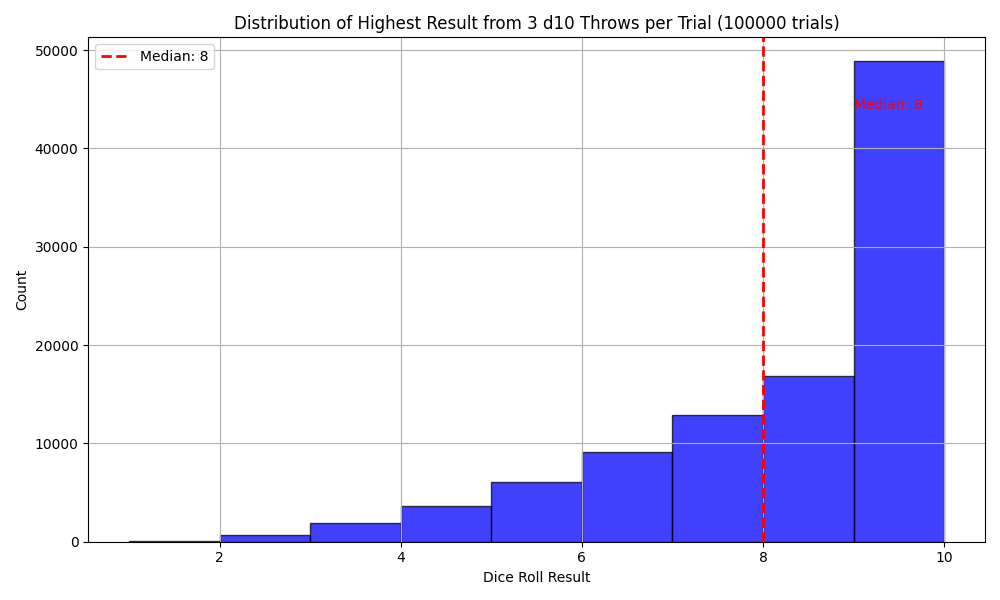
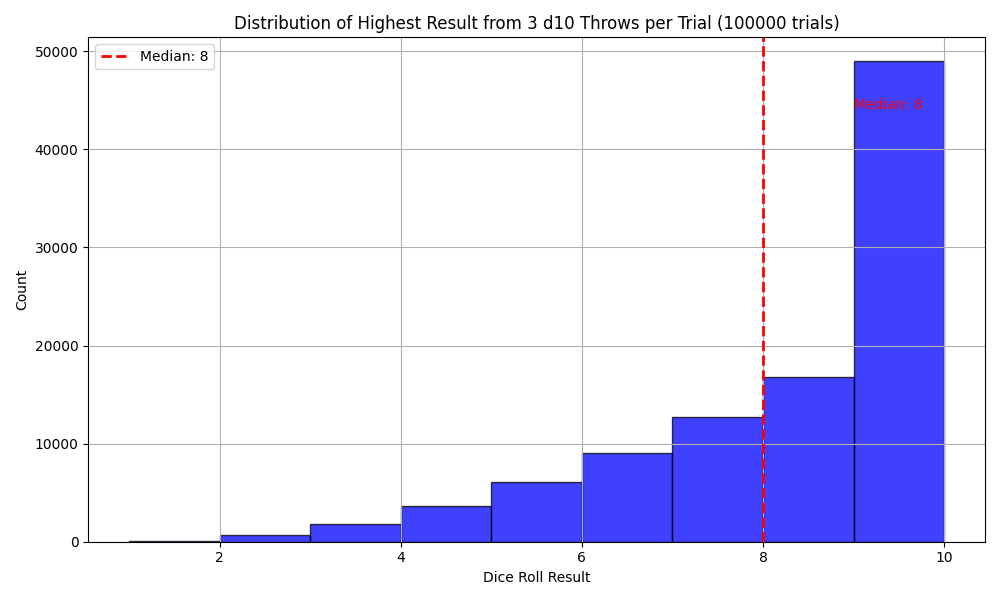
Update code/elony_hatrany_eloszlasok.py: automatikusan minden kockadobásra megcsinálja

diff --git a/code/elony_hatrany_eloszlasok.py b/code/elony_hatrany_eloszlasok.py
@@ -2,6 +2,7 @@ import sys
 import os
 import numpy as np
 import matplotlib.pyplot as plt
+import json
 
 def throw_dice(dice_type):
     if dice_type == 'd6':
@@ -26,63 +27,72 @@ def simulate_one_trial(num_throws_per_trial, mode, dice_type):
     else:
         raise ValueError("Mode must be 'highest' or 'lowest'")
 
+def generate_statistics_json(results, dice_type, mode, num_throws_per_trial, num_trials):
+    stats = {
+        "dice_type": dice_type,
+        "mode": mode,
+        "num_throws_per_trial": num_throws_per_trial,
+        "num_trials": num_trials,
+        "min_result": int(min(results)),
+        "max_result": int(max(results)),
+        "mean_result": float(np.mean(results)),
+        "median_result": float(np.median(results)),
+        "std_dev_result": float(np.std(results))
+    }
+    return json.dumps(stats, indent=4)
+
 def main():
-    if len(sys.argv) != 5:
-        print("Usage: python script.py <number_of_throws_per_trial> <highest|lowest> <dice_type> <output_directory>")
+    if len(sys.argv) != 2:
+        print("Usage: python script.py <output_directory>")
         sys.exit(1)
 
-    try:
-        num_throws_per_trial = int(sys.argv[1])
-        if num_throws_per_trial < 1:
-            raise ValueError
-    except ValueError:
-        print("Error: number_of_throws_per_trial must be a positive integer")
-        sys.exit(1)
-
-    mode = sys.argv[2].lower()
-    if mode not in ("highest", "lowest"):
-        print("Error: mode must be 'highest' or 'lowest'")
-        sys.exit(1)
-
-    dice_type = sys.argv[3].lower()
-    if dice_type not in ("d6", "d10", "d20", "d100"):
-        print("Error: dice_type must be one of 'd6', 'd10', 'd20', 'd100'")
-        sys.exit(1)
-
-    output_dir = sys.argv[4]
+    output_dir = sys.argv[1]
     if not os.path.exists(output_dir):
         os.makedirs(output_dir)
 
     np.random.seed(42)  # for reproducibility
 
+    dice_types = ['d6', 'd10', 'd20', 'd100']
+    modes = ['highest', 'lowest']
+    num_throws_list = [2, 3]
     num_trials = 100000  # fixed number of trials
 
-    results = [simulate_one_trial(num_throws_per_trial, mode, dice_type) for _ in range(num_trials)]
-    median_result = np.median(results)
+    for dice_type in dice_types:
+        for num_throws_per_trial in num_throws_list:
+            for mode in modes:
+                results = [simulate_one_trial(num_throws_per_trial, mode, dice_type) for _ in range(num_trials)]
+                median_result = np.median(results)
 
-    plt.figure(figsize=(10, 6))
-    max_bin = {'d6': 7, 'd10': 11, 'd20': 21, 'd100': 102}[dice_type]
-    counts, bins, patches = plt.hist(results, bins=range(1, max_bin), alpha=0.75, color='blue', edgecolor='black')
-    plt.title(f"Distribution of {mode.capitalize()} Result from {num_throws_per_trial} {dice_type} Throws per Trial ({num_trials} trials)")
-    plt.xlabel("Dice Roll Result")
-    plt.ylabel("Count")
-    plt.grid(True)
+                # Save JSON statistics
+                json_stats = generate_statistics_json(results, dice_type, mode, num_throws_per_trial, num_trials)
+                json_filename = f"{dice_type}_{mode}_stats_{num_throws_per_trial}_throws_per_trial.json"
+                json_filepath = os.path.join(output_dir, json_filename)
+                with open(json_filepath, "w") as json_file:
+                    json_file.write(json_stats)
+                print(f"Statistics JSON saved as {json_filepath}")
 
-    # Median line and annotation
-    plt.axvline(median_result, color='red', linestyle='--', linewidth=2, label=f"Median: {int(median_result)}")
-    max_count = counts.max()
-    plt.text(median_result + 1, max_count * 0.9, f"Median: {int(median_result)}", color='red')
+                # Plot histogram
+                plt.figure(figsize=(10, 6))
+                max_bin = {'d6': 7, 'd10': 11, 'd20': 21, 'd100': 102}[dice_type]
+                counts, bins, patches = plt.hist(results, bins=range(1, max_bin), alpha=0.75, color='blue', edgecolor='black')
+                plt.title(f"Distribution of {mode.capitalize()} Result from {num_throws_per_trial} {dice_type} Throws per Trial ({num_trials} trials)")
+                plt.xlabel("Dice Roll Result")
+                plt.ylabel("Count")
+                plt.grid(True)
 
-    plt.legend()
-    plt.tight_layout()
+                plt.axvline(median_result, color='red', linestyle='--', linewidth=2, label=f"Median: {int(median_result)}")
+                max_count = counts.max()
+                plt.text(median_result + 1, max_count * 0.9, f"Median: {int(median_result)}", color='red')
 
-    filename = f"{dice_type}_{mode}_result_count_{num_throws_per_trial}_throws_per_trial.png"
-    filepath = os.path.join(output_dir, filename)
-    plt.savefig(filepath)
-    plt.close()
+                plt.legend()
+                plt.tight_layout()
 
-    print(f"Histogram saved as {filepath}")
+                filename = f"{dice_type}_{mode}_result_count_{num_throws_per_trial}_throws_per_trial.png"
+                filepath = os.path.join(output_dir, filename)
+                plt.savefig(filepath)
+                plt.close()
+
+                print(f"Histogram saved as {filepath}")
 
 if __name__ == "__main__":
     main()
-
